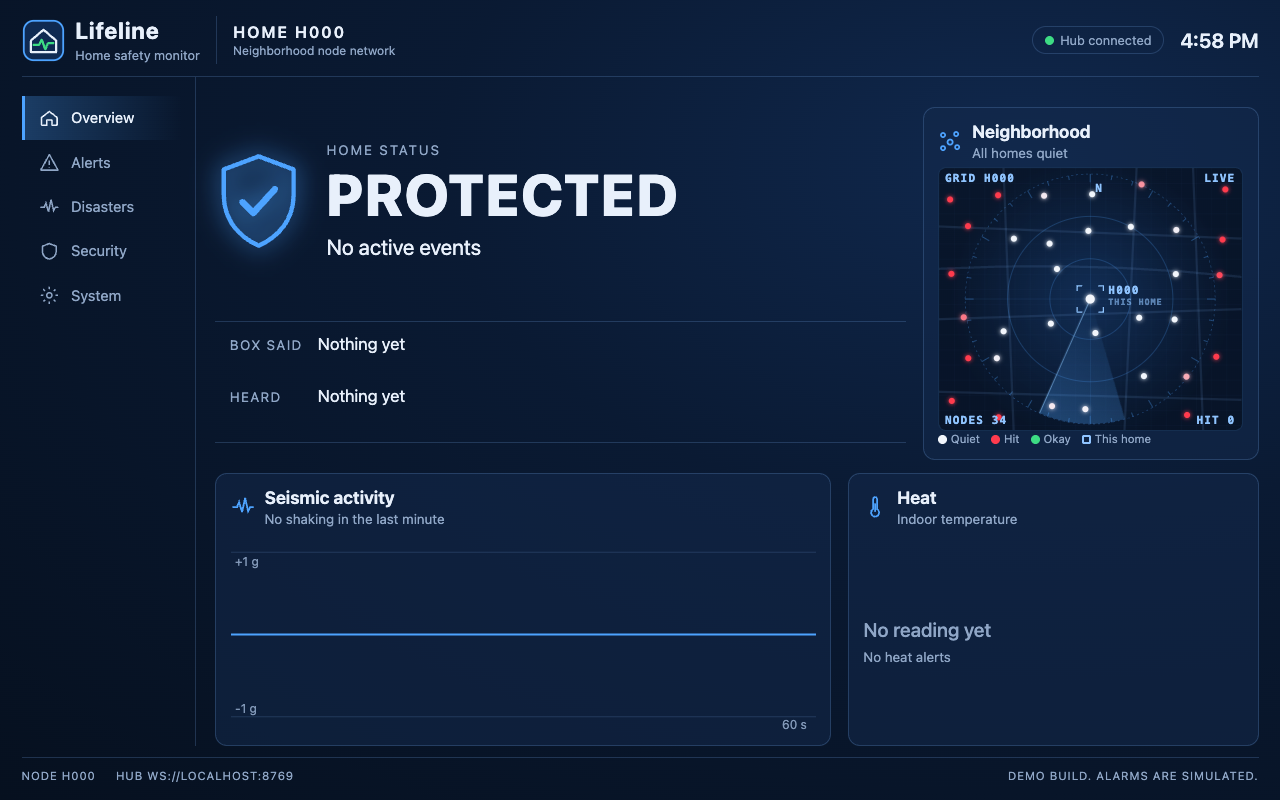
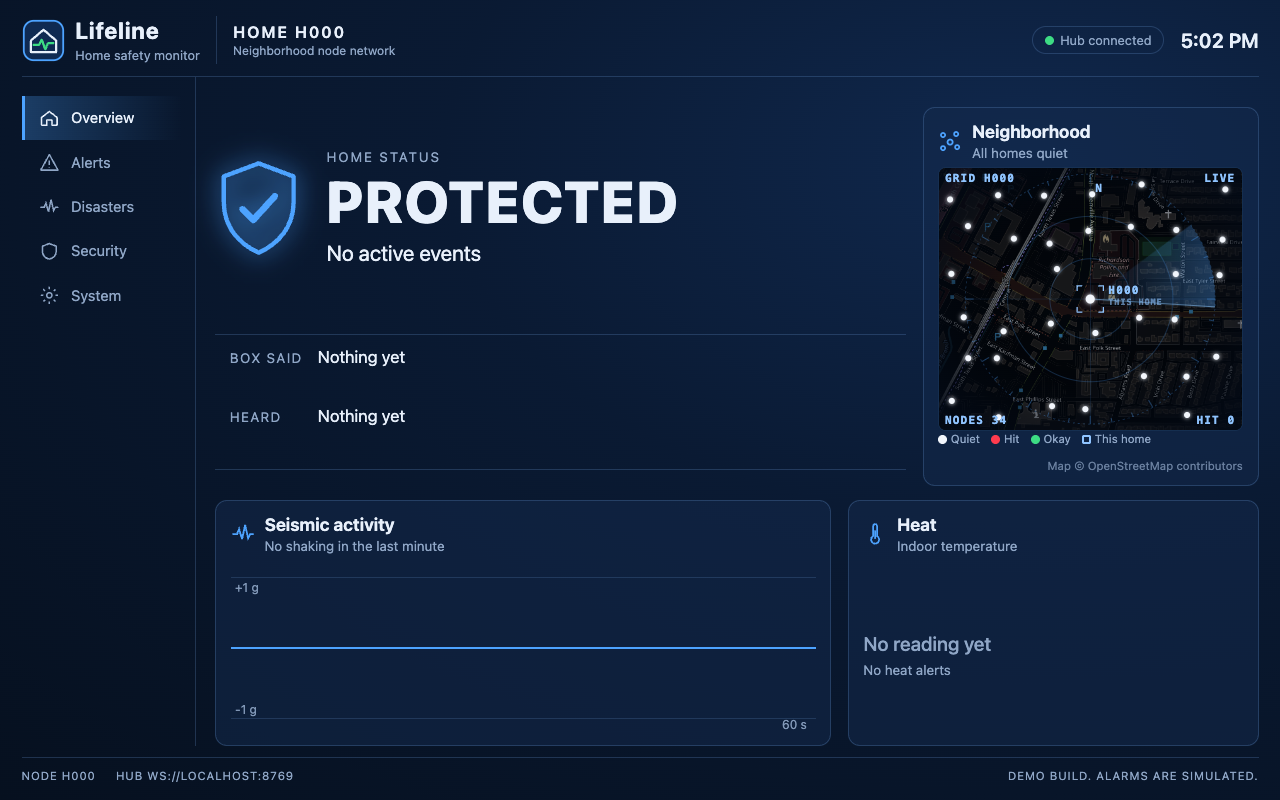
Home screen: real OpenStreetMap street map behind the neighborhood scope, cached offline

diff --git a/software/web/home/index.html b/software/web/home/index.html
@@ -159,7 +159,8 @@
   .map .legend { display: flex; gap: 1em; color: var(--muted); font-size: calc(var(--u) * 0.85); flex-wrap: wrap; }
   .map .legend i { display: inline-block; width: 0.75em; height: 0.75em; border-radius: 50%; margin-right: 0.35em; vertical-align: -0.05em; }
   #map { background: radial-gradient(circle at 50% 50%, rgba(20, 60, 110, 0.35), rgba(3, 10, 22, 0.6) 70%); border-radius: 8px; border: 1px solid rgba(77, 163, 255, 0.18); }
-  .streets path { fill: none; stroke: rgba(120, 170, 235, 0.13); stroke-width: 2.2; }
+  .basemap { filter: invert(1) hue-rotate(185deg) brightness(0.75) contrast(1.15) saturate(0.55); opacity: 0.85; }
+  .map .credit { margin-left: auto; opacity: 0.7; }
   .range { fill: none; stroke: rgba(77, 163, 255, 0.28); stroke-width: 0.8; }
   .range:last-of-type { stroke-dasharray: 2 3; }
   .cross { stroke: rgba(77, 163, 255, 0.16); stroke-width: 0.6; }
@@ -260,7 +261,7 @@
         <div><div class="card-title">Neighborhood</div><div class="card-sub" id="map-sub">All homes quiet</div></div>
       </div>
       <svg id="map" viewBox="0 0 300 260" aria-label="Neighborhood node map"></svg>
-      <div class="legend"><span><i style="background:#f2f6fc"></i>Quiet</span><span><i style="background:var(--danger)"></i>Hit</span><span><i style="background:var(--ok)"></i>Okay</span><span><i style="border:2px solid #8fc4ff;border-radius:2px"></i>This home</span></div>
+      <div class="legend"><span><i style="background:#f2f6fc"></i>Quiet</span><span><i style="background:var(--danger)"></i>Hit</span><span><i style="background:var(--ok)"></i>Okay</span><span><i style="border:2px solid #8fc4ff;border-radius:2px"></i>This home</span><span class="credit">Map &copy; OpenStreetMap contributors</span></div>
     </section>
 
     <div class="cards">

diff --git a/software/web/home/app.js b/software/web/home/app.js
@@ -58,19 +58,22 @@ map.innerHTML = `
       <stop offset="0" stop-color="#4da3ff" stop-opacity="0"/>
       <stop offset="1" stop-color="#4da3ff" stop-opacity="0.32"/>
     </linearGradient>
-    <pattern id="grid" width="15" height="15" patternUnits="userSpaceOnUse">
-      <path d="M15 0H0V15" fill="none" stroke="rgba(77,163,255,0.08)" stroke-width="0.6"/>
-    </pattern>
+    <radialGradient id="vignette" cx="50%" cy="50%" r="65%">
+      <stop offset="0.45" stop-color="#030a16" stop-opacity="0"/>
+      <stop offset="1" stop-color="#030a16" stop-opacity="0.85"/>
+    </radialGradient>
     <clipPath id="scope"><circle cx="${HOME.x}" cy="${HOME.y}" r="124"/></clipPath>
   </defs>`;
 
-svgEl('rect', { width: 300, height: 260, fill: 'url(#grid)' }, map);
-
-// Street blocks, drawn faint under everything.
-const streets = svgEl('g', { class: 'streets' }, map);
-for (const d of ['M0 58 L300 70', 'M0 150 L300 140', 'M0 222 L300 230', 'M64 0 L74 260', 'M196 0 L184 260', 'M252 0 L262 260', 'M0 100 Q150 92 300 108']) {
-  svgEl('path', { d }, streets);
+// OpenStreetMap tiles of Richardson, TX (zoom 16), saved in map/ so the page works offline.
+const TILE = 160;
+const basemap = svgEl('g', { class: 'basemap' }, map);
+for (const [col, x] of [[0, 15158], [1, 15159]]) {
+  for (const [row, y] of [[0, 26408], [1, 26409]]) {
+    svgEl('image', { href: `map/16-${x}-${y}.png`, x: -10 + col * TILE, y: -30 + row * TILE, width: TILE, height: TILE }, basemap);
+  }
 }
+svgEl('rect', { width: 300, height: 260, fill: 'url(#vignette)' }, map);
 
 const scope = svgEl('g', {}, map);
 for (const r of [40, 82, 124]) svgEl('circle', { cx: HOME.x, cy: HOME.y, r, class: 'range' }, scope);
